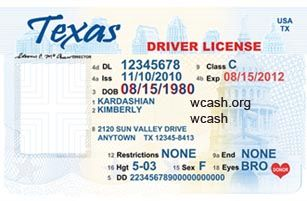
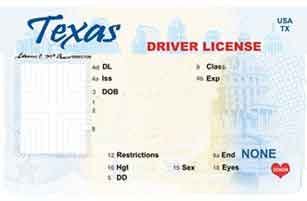
adding the drivers license, insurance card and ssn card

diff --git a/example/exampleGenerator.js b/example/exampleGenerator.js
@@ -39,6 +39,21 @@ module.exports = {
         let appId = "";
         for(let i=0; i < fullName.length; i++)
             appId += fullName.charAt(i).charCodeAt(0);
+	    let ssn = randomInt(100, 999)+'-'+randomInt(10, 99)+'-'+randomInt(1000, 9999);
+
+	    let driversLicense = {
+		    id: randomInt(100000, 999999),
+		    class: ['A', 'B', 'C', 'C', 'D', 'E'][randomInt(0, 5)],
+		    issuedOn: randDate(),
+		    expireOn: randDate(),
+		    birth: randDate(),
+		    address: randAddress(),
+		    restriction: ['NONE', 'NONE', 'NONE', 'A', 'B', 'C', 'D', 'E'][randomInt(0, 7)],
+		    height: randomInt(4,6)+'-'+randomInt(1, 11),
+		    dd: randomInt(10000000000000000000, 99999999999999999999),
+		    sex: ['M', 'F', '?'][randomInt(0,2)],
+		    eyes: ['BRO', 'BLK', 'RED', 'BLU', 'GRN', 'YEL'][randomInt(0, 5)]
+	    };
 
         let seller = {
             name: randName(),
@@ -70,6 +85,10 @@ module.exports = {
 	    loan.payment = (loan.financed + loan.financeCharge + loan.down) / loan.term;
 
 	    let insurance = {
+		    policyNumber: randomInt(1000000000, 9999999999),
+		    naic: randomInt(10000, 99999),
+		    effectiveDate: randDate(),
+		    expiration: randDate(),
 		    deductable: randomInt(500, 5000),
 		    collision: randomInt(0, 10000),
 		    injury: randomInt(0, 10000),
@@ -99,7 +118,7 @@ module.exports = {
             last: last,
             fullName: fullName,
 
-	        buyerContact: `${fullName}\n${randAddress()}\n${randPhone()}`,
+	        buyerContact: `${fullName}\n${driversLicense.address}\n${randPhone()}`,
 	        coBuyerContact: coBuyer.contactInfo,
             sellerContact: `${seller.name}\n${seller.address}\n${seller.phone}`,
 
@@ -132,6 +151,25 @@ module.exports = {
 	        insuranceSeller: insurance.seller,
 
 	        coBuyerSignature: coBuyer.fullName,
+
+	        ssn: ssn,
+
+	        dlNumber: driversLicense.id,
+	        dlClass: driversLicense.class,
+	        dlIssuedOn: driversLicense.issuedOn,
+	        dlExpiresOn: driversLicense.expireOn,
+	        dlBirth: driversLicense.birth,
+	        address: driversLicense.address,
+	        dlRestrict: driversLicense.restriction,
+	        dlHeight: driversLicense.height,
+	        dlSex: driversLicense.sex,
+	        dlEyes: driversLicense.eyes,
+	        dlDd: driversLicense.dd,
+
+	        naic: insurance.naic,
+	        policyNumber: insurance.policyNumber,
+	        insuranceEffective: insurance.effectiveDate,
+	        insuranceExpiration: insurance.expiration,
 
 	        handwriting: {
                 angle: randomInt(-4, 4) * .025,
